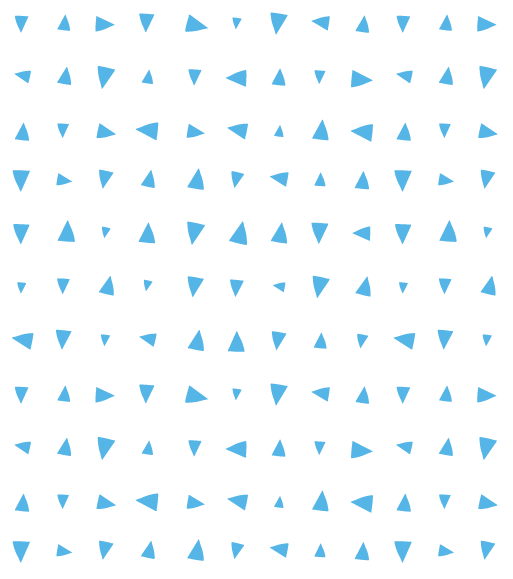
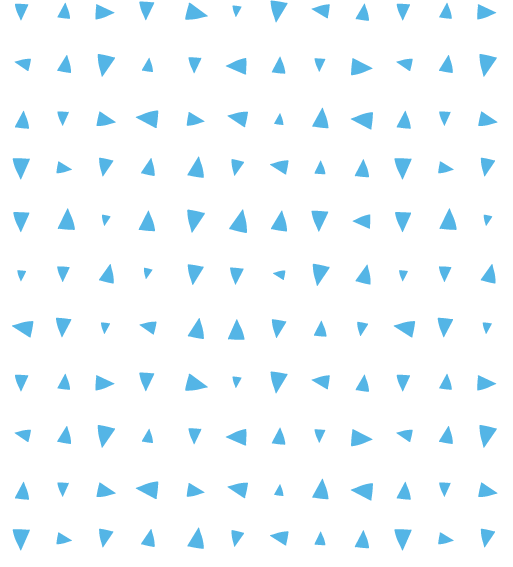
BG image change

diff --git a/Assets/CSS/Stemwijzer.css b/Assets/CSS/Stemwijzer.css
@@ -12,10 +12,11 @@ input[type="radio"] {
 
 .Options {
 	background-image: url(../../Assets/Images/arrows-blue-bg.png);
-	padding: 2rem 0;
+	padding: 2.5rem 0;
 	width: 100%;
 	display: grid;
 	flex-wrap: wrap;
+	background-size: contain;
 }
 
 .Options > label {
@@ -63,6 +64,7 @@ input[type="radio"] {
 @media (min-width: 768px) {
 	.Options {
 		max-width: 1500px;
+		padding: 2rem 0;
 		grid-template-columns: repeat(5, 1fr);
 	}
 	.Options > label {
